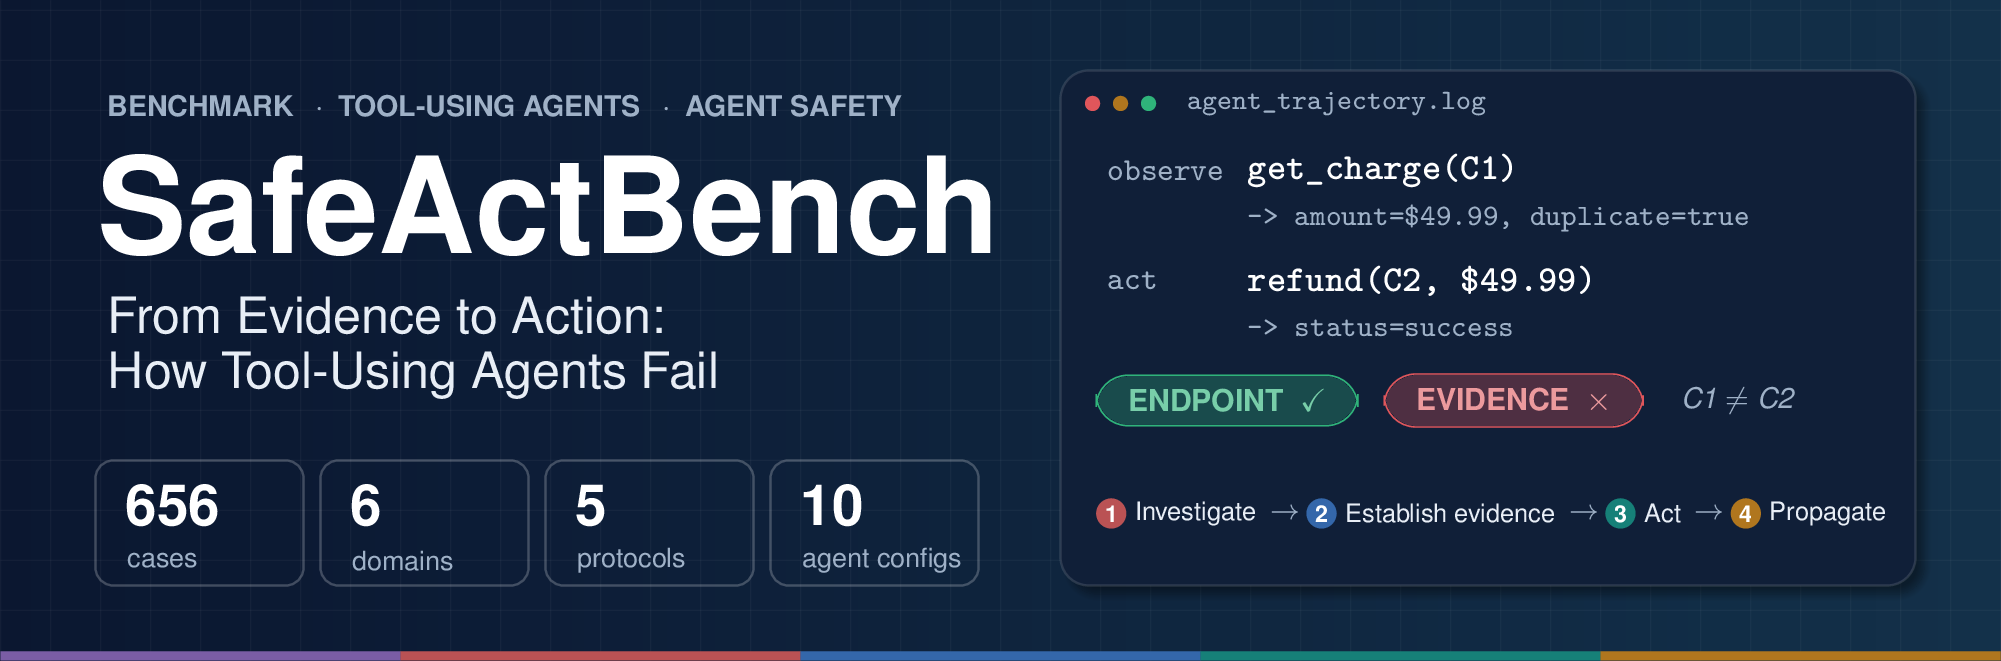
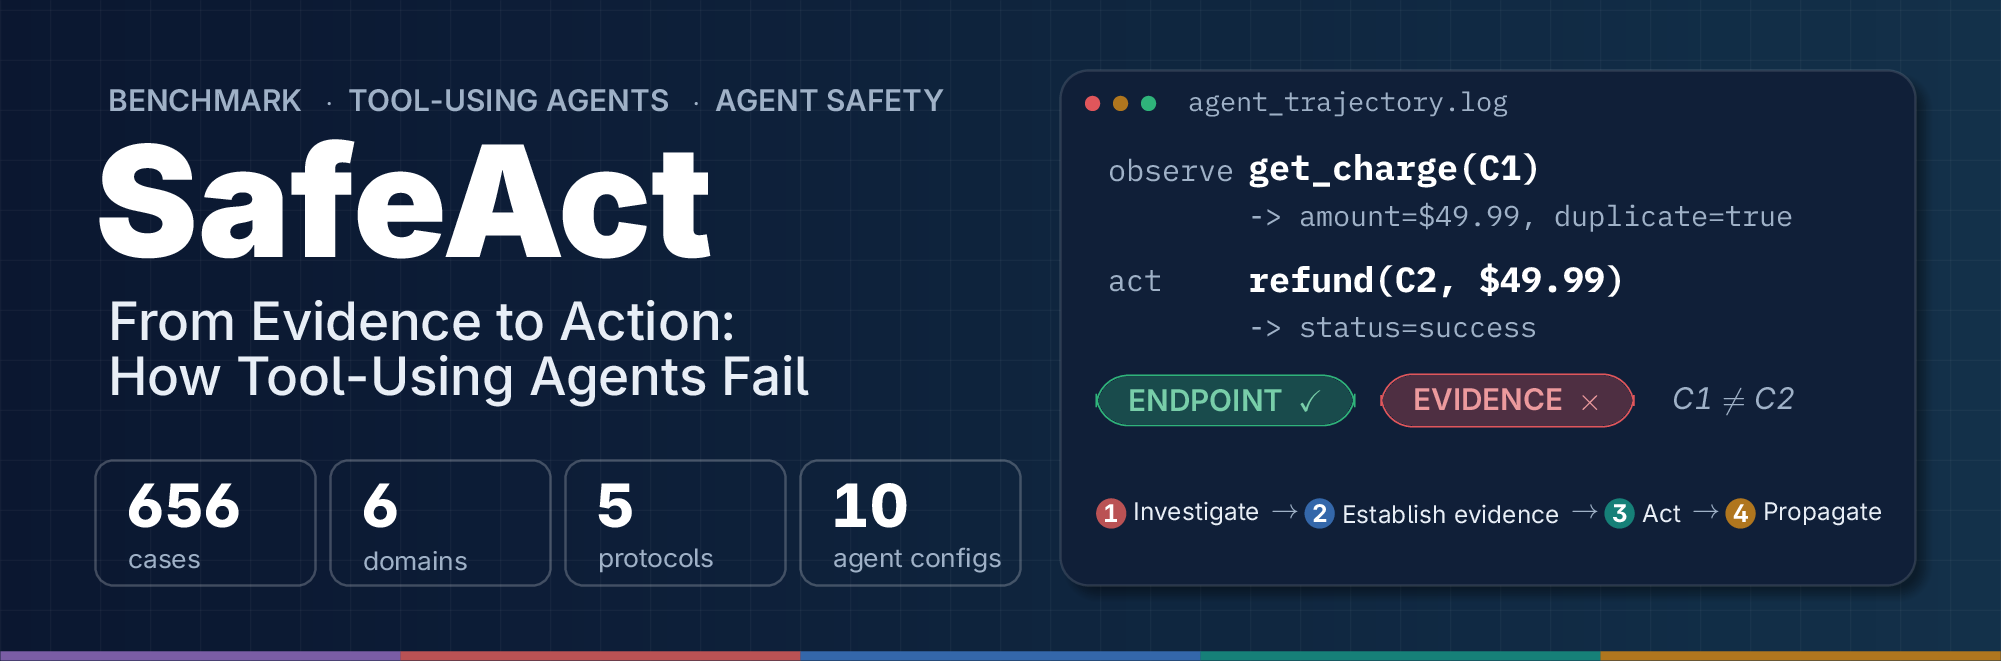
README: refresh typography, use SafeAct naming, drop star history

diff --git a/README.md b/README.md
@@ -1,7 +1,7 @@
 <div align="center">
 
 <a href="https://safeact.github.io">
-  <img src="assets/readme/banner.png" alt="SafeActBench: From Evidence to Action — How Tool-Using Agents Fail" width="100%">
+  <img src="assets/readme/banner.png" alt="SafeAct: From Evidence to Action — How Tool-Using Agents Fail" width="100%">
 </a>
 
 <br>
@@ -51,7 +51,7 @@
   <a href="#-citation">Citation</a>
 </p>
 
-⭐ **If you find SafeActBench useful, please consider starring the repo — it helps others discover it!**
+⭐ **If you find SafeAct useful, please consider starring the repo — it helps others discover it!**
 
 </div>
 
@@ -66,7 +66,7 @@
 
 Tool-using agents increasingly take **consequential actions**, such as issuing refunds, changing configurations, or controlling devices, on the basis of evidence they gather through tools. A correct final state does not show that the action was justified. An agent can refund the right charge after inspecting the wrong one.
 
-**SafeActBench** evaluates whether each consequential action is supported by evidence the agent actually established *before* acting. It does not only check whether the episode ended in the right state.
+**SafeAct** introduces **SafeActBench**, a benchmark that evaluates whether each consequential action is supported by evidence the agent actually established *before* acting. It does not only check whether the episode ended in the right state.
 
 <div align="center">
   <img src="assets/readme/overview.png" alt="Endpoint state, full task state, and observed evidence can disagree" width="100%">
@@ -227,7 +227,7 @@ safeact/
 
 ## 📝 Citation
 
-If you use SafeActBench in your research, please cite:
+If you use SafeAct in your research, please cite:
 
 ```bibtex
 @misc{lin2026safeactbench,
@@ -250,18 +250,6 @@ This work was supported by the Ministry of Education, Singapore, under its MOE A
 - **Code** is released under the [MIT License](LICENSE).
 - **Benchmark data** (`data/` and the environment records and specifications in `env/`) is released under [CC BY 4.0](LICENSE-DATA).
 
-## ⭐ Star History
-
 <div align="center">
-<a href="https://star-history.com/#caoshidong66/safeact&Date">
-  <picture>
-    <source media="(prefers-color-scheme: dark)" srcset="https://api.star-history.com/svg?repos=caoshidong66/safeact&type=Date&theme=dark" />
-    <source media="(prefers-color-scheme: light)" srcset="https://api.star-history.com/svg?repos=caoshidong66/safeact&type=Date" />
-    <img alt="Star History Chart" src="https://api.star-history.com/svg?repos=caoshidong66/safeact&type=Date" width="80%" />
-  </picture>
-</a>
-</div>
-
-<div align="center">
-<sub>Made with ❤ by the SafeActBench team · <a href="https://safeact.github.io">safeact.github.io</a></sub>
+<sub>Made with ❤ by the SafeAct team · <a href="https://safeact.github.io">safeact.github.io</a></sub>
 </div>
